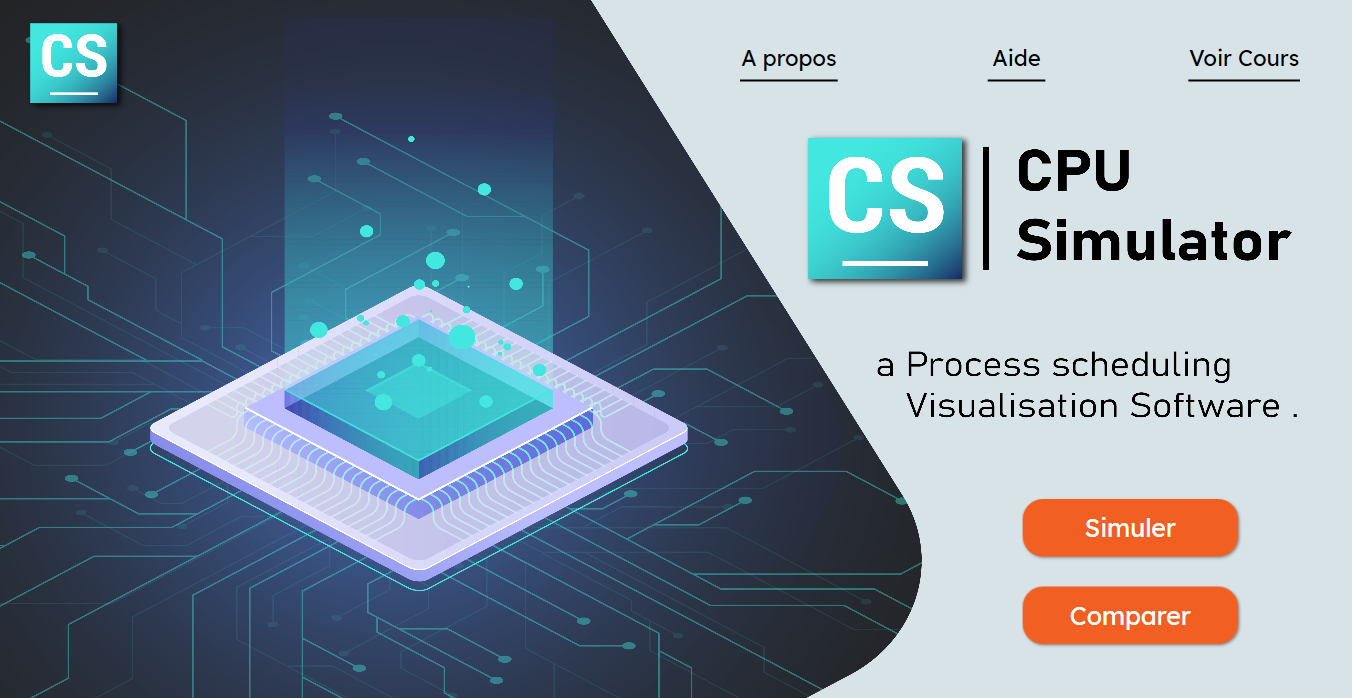
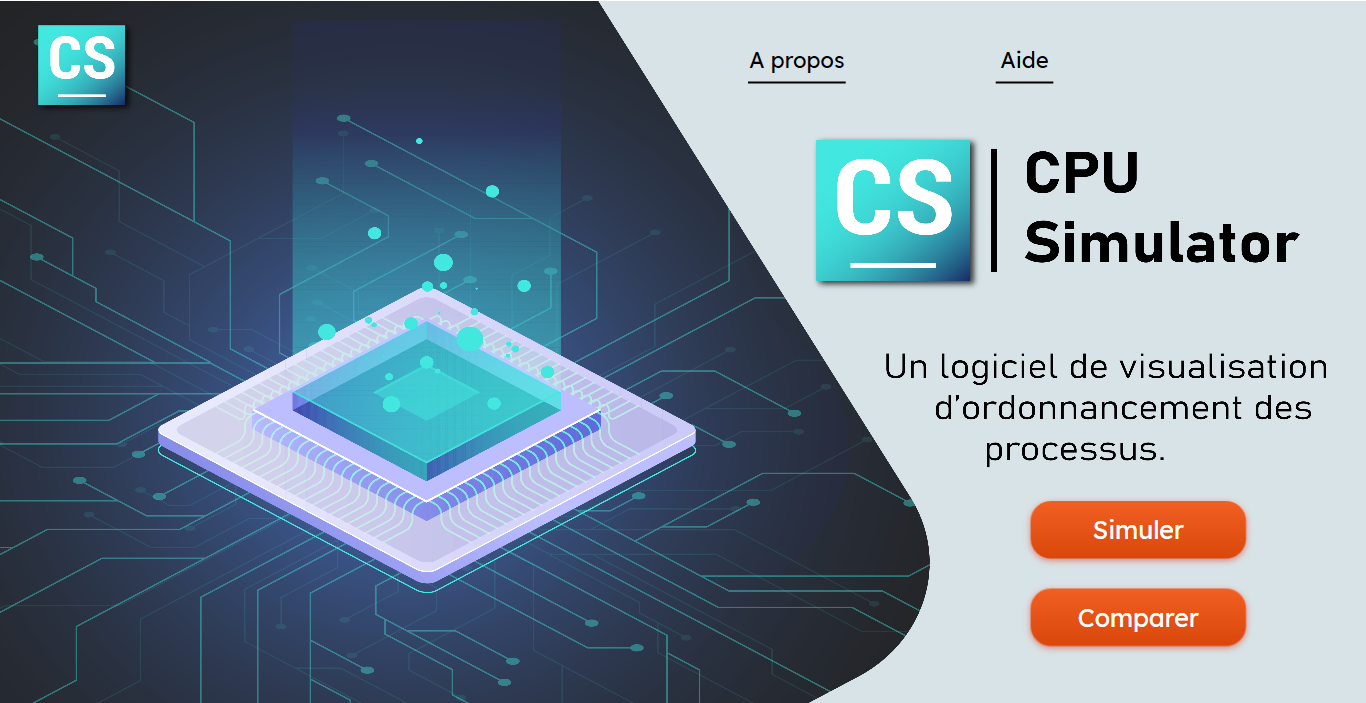
retouches finales

diff --git a/FinalAppTest/Pageweb/index.html b/FinalAppTest/Pageweb/index.html
@@ -113,9 +113,7 @@
                                     <img src="images/Apropos.png">
                                     <br> Aide : La page d'aide de l'application. <br>
                                     <img src="images/Aide.png">
-                                    <br> Voir cours : Une présentation sur le cours "Gestion des processus" contenant les notions de processus et l'ordonnancement
-                                    des processus. <br>
-                                    <img src="images/VoirCours.png">
+                                 
                                 </p>
                                     <br>
                                 <li class="first_titles">La simulation</li>
@@ -131,9 +129,8 @@
                                         <li class="third_title" id="paps">PAPS, PCA, PLA, PCTR</li>
                                         <p>Quand vous cliquez sur l'algorithme , la page de saisie s'ouvre, <img src="images/PageSaisie.png" height="80%" width="80%"><br> vous trouvez 4 boutons dans l'entête de la page : le bouton "Home"
                                             pour revenir à la page d'accueil, <br><img src="images/Home.png"><br> le bouton "retour" pour revenir à la Page 
-                                            des algorithmes, <br><img src="images/Back.png"><br> le bouton "Hint" pour avoir un guide d'utilisation dynamique,
-                                            <br><img src="images/Hint.png"><br> et le bouton "Cours" pour voir une présentation sur le cours "Gestion des processus" contenant les notions de processus et l'ordonnancement
-                                            des processus. <br><img src="images/Cours.png"><br>
+                                            des algorithmes, <br><img src="images/Back.png"><br>et le bouton "Hint" pour avoir un guide d'utilisation dynamique,
+                                            <br><img src="images/Hint.png"><br>.
                                             Vous pouvez basculer entre tous les autres algorithmes à partir de la liste des algorithmes à gauche. <br>
                                             Vous avez 2 méthodes pour remplir le tableau des processus:
                                             <br> 1\ Vous pouvez générer les données aléatoirement, en précisant le nombre des processus ,<br><img src="images/NbProcess.png"><br> et en spécifiant s'il y'a des

diff --git a/FinalAppTest/Pageweb/style.css b/FinalAppTest/Pageweb/style.css
@@ -4,6 +4,7 @@ html {
     background-color: #eaf2ff;
     line-height: 2em;
     scroll-padding-top: 4.5rem;
+    overflow-x: hidden;
 }
 body{
     margin:0;
